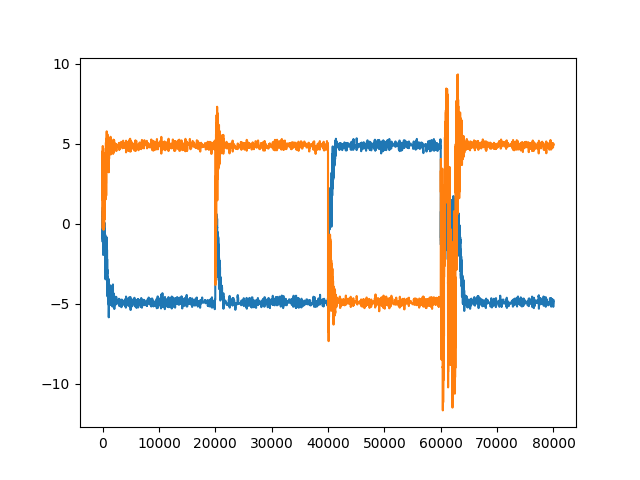
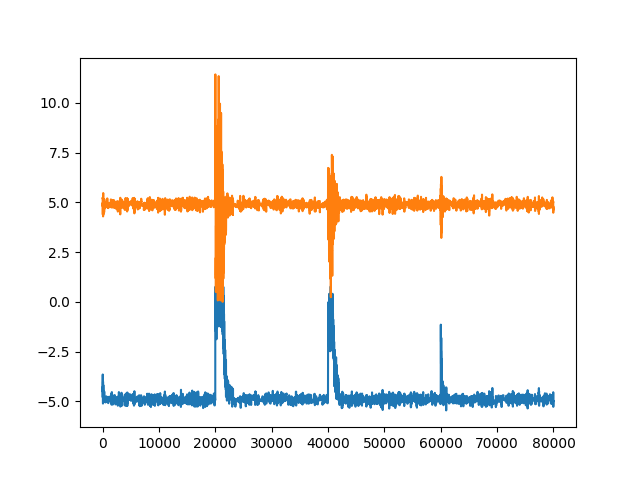
use potential to keep order and a start value in the correct order

diff --git a/regmix.py b/regmix.py
@@ -7,6 +7,7 @@
 import numpy as np
 import matplotlib.pyplot as plt
 import pymc3 as pm
+import theano.tensor as tt
 
 # import seaborn as sns
 
@@ -49,6 +50,13 @@ with basic_model:
     beta_1 = pm.Normal("beta_1", mu=0, sd=100, shape=2)  # Betas.  Two of them.
     sigma = pm.Uniform("sigma", 0, 20)  # Noise
 
+    # https://docs.pymc.io/en/v3/pymc-examples/examples/mixture_models/gaussian_mixture_model.html
+    # Break the symmetry. beta_1 array should always be sorted in
+    # increasing order so it's easier to compare and average over chains
+    order_slopes_potential = pm.Potential(
+        "order_slopes_potential", tt.switch(beta_1[1] - beta_1[0] < 0, -np.inf, 0)
+    )
+
     category = pm.Bernoulli(
         "category", p=p, shape=size * 2
     )  # Classification of each observation
@@ -65,11 +73,33 @@ with basic_model:
     step1 = pm.Metropolis([p, alpha, beta_1, sigma])
     # non-default scaling is importtant
     step2 = pm.BinaryMetropolis([category], scaling=0.01)
-    trace = pm.sample(20000, [step1, step2], progressbar=True)
 
+    # the classification part converges to different categories
+    trace = pm.sample(
+        20000,
+        [step1, step2],
+        progressbar=True,
+        return_inferencedata=False,
+        start={"beta_1": [-1, 1]},  #
+    )
+
+
+# %% post simulation calcs
+# print(trace)
+# print(trace.sample_stats)
+# https://python.arviz.org/en/stable/getting_started/WorkingWithInferenceData.html
+# post = trace.posterior
+# print(post["beta_1"])
+# print(post.mean(dim=['chain', 'draw']))
+# print(post.mean(dim=["draw"]))
+# trace.sel(chain=[0, 2])
+# stacked = az.extract(trace)
+# idata.sel(draw=slice(100, None))
 
 alpha_mean = np.apply_along_axis(np.mean, 0, trace["alpha"])
+beta_1_mean = np.apply_along_axis(np.mean, 0, trace["beta_1"])
 print(alpha_mean)
+print(beta_1_mean)
 
 
 # %% Plotting: checks
@@ -83,7 +113,7 @@ fig.savefig("regmix-trace.png")
 
 # %% Plotting: results
 
-# this mean averages "how many times in the trace 
+# this mean averages "how many times in the trace
 # a point is averaged as either 0 or 1"
 # the mean of the mean should give some center value that can be used to categorize
 p_cat = np.apply_along_axis(np.mean, 0, trace["category"])
@@ -130,7 +160,7 @@ ax.plot(trace["beta_1"][:, 0])
 ax.plot(trace["beta_1"][:, 1])
 fig.savefig("regmix-beta-trace.png")
 
-counts, bins = np.histogram(trace["beta_1"][:, 1], bins=50)
+counts, bins = np.histogram(trace["beta_1"], bins=50)
 beta_1_mean = np.apply_along_axis(np.mean, 0, trace["beta_1"])
 print(beta_1_mean)
 fig, ax = plt.subplots(1, 1)
@@ -146,12 +176,17 @@ print(trace["category"].shape)
 category_trace = trace["category"]
 # get the mean models
 beta1_trace = trace["beta_1"]
-beta1_trace = beta1_trace[:,0]
+beta1_trace = beta1_trace[:, 0]
 # beta_1_mean = np.apply_along_axis(np.mean, 0, beta1_trace)
 # print(beta_1_mean)
-print(beta1_trace.shape
-beta_1_mean  = beta1_trace[category_trace == 0].mean()
-print(beta_1_mean)
+print(beta1_trace.shape)
+# beta_1_mean  = beta1_trace[category_trace == 0].mean()
+# print(beta_1_mean)
 
 
 print(pm.__version__)
+
+print(trace["b1"])
+fig, ax = plt.subplots(1, 1)
+ax.plot(trace["b1"][:, 0])
+ax.plot(trace["b1"][:, 1])
